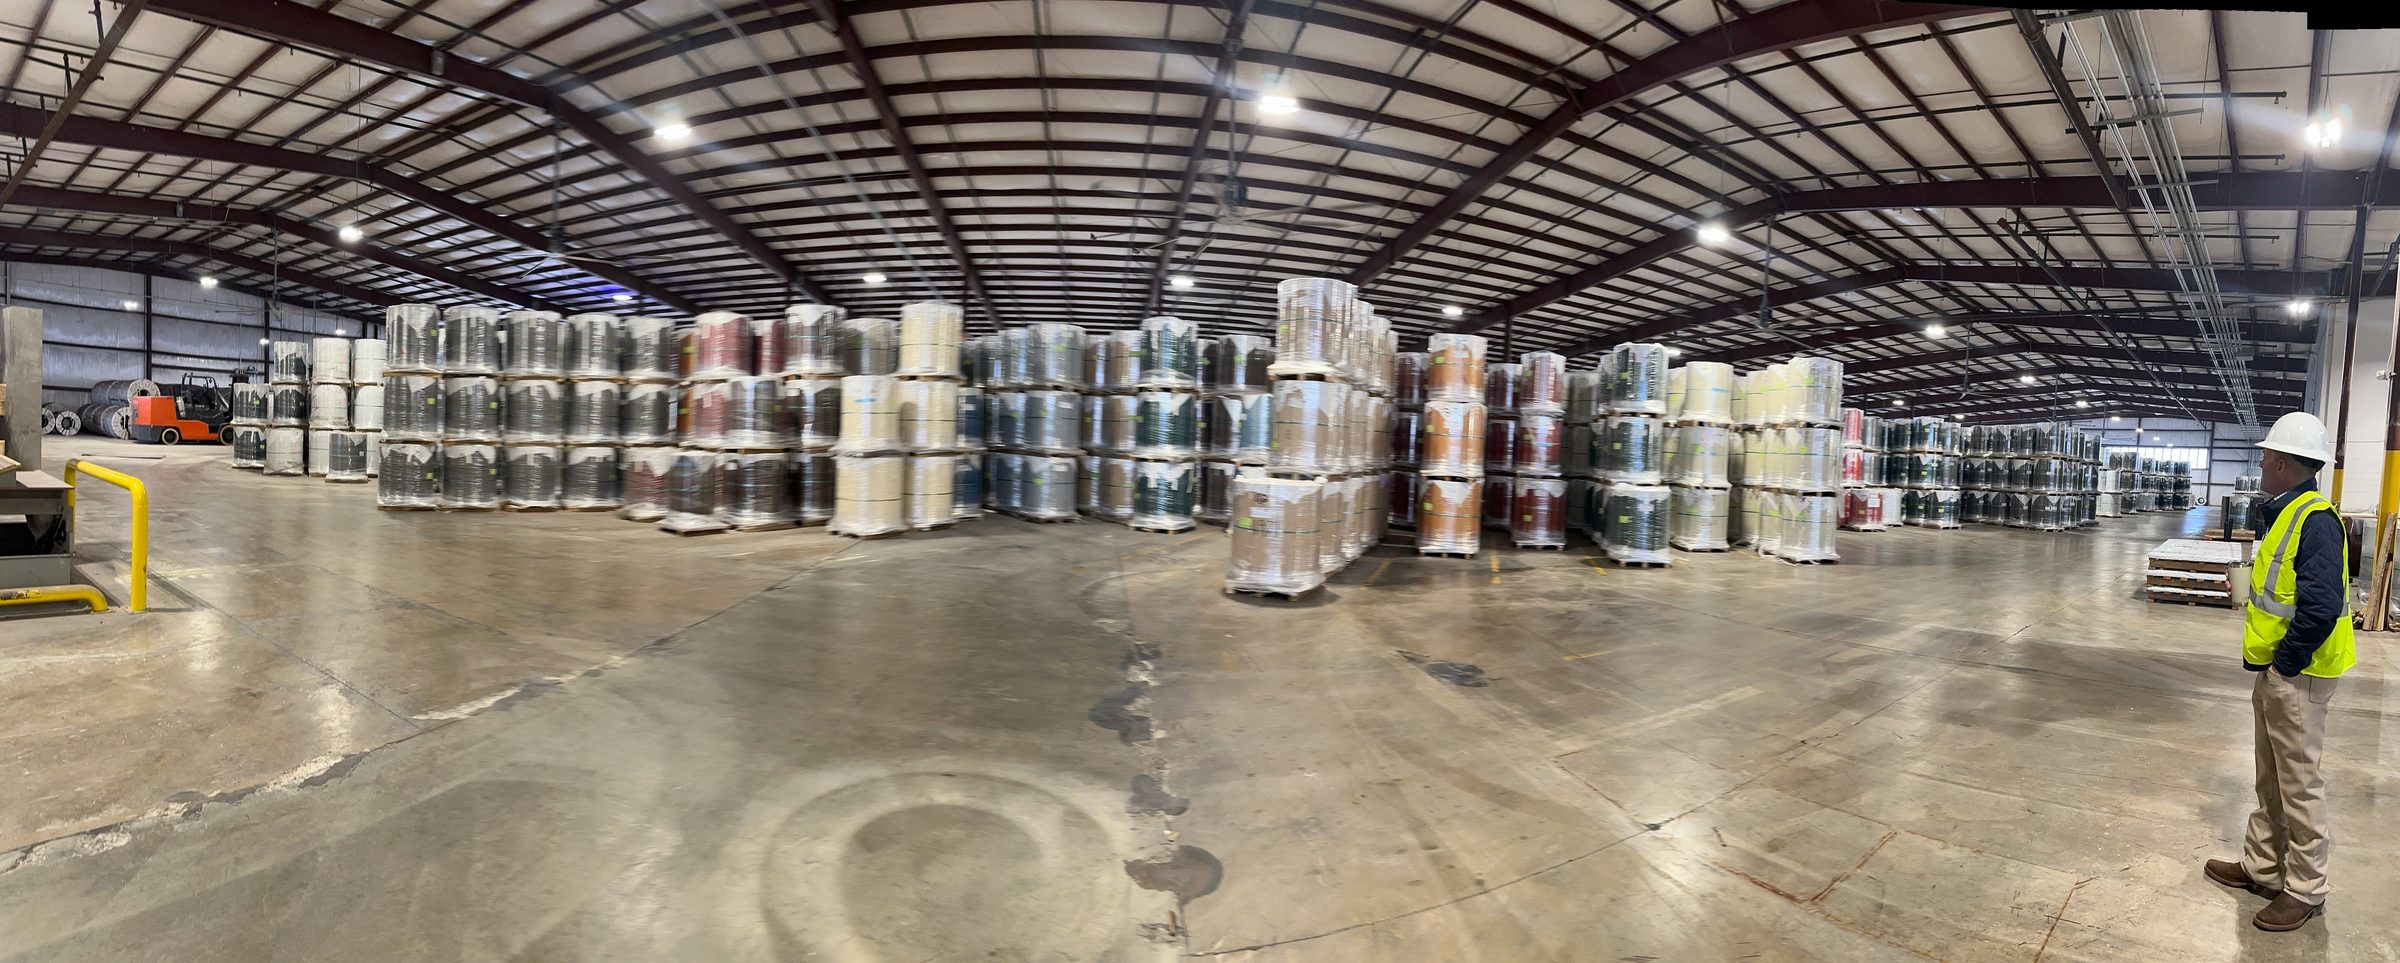
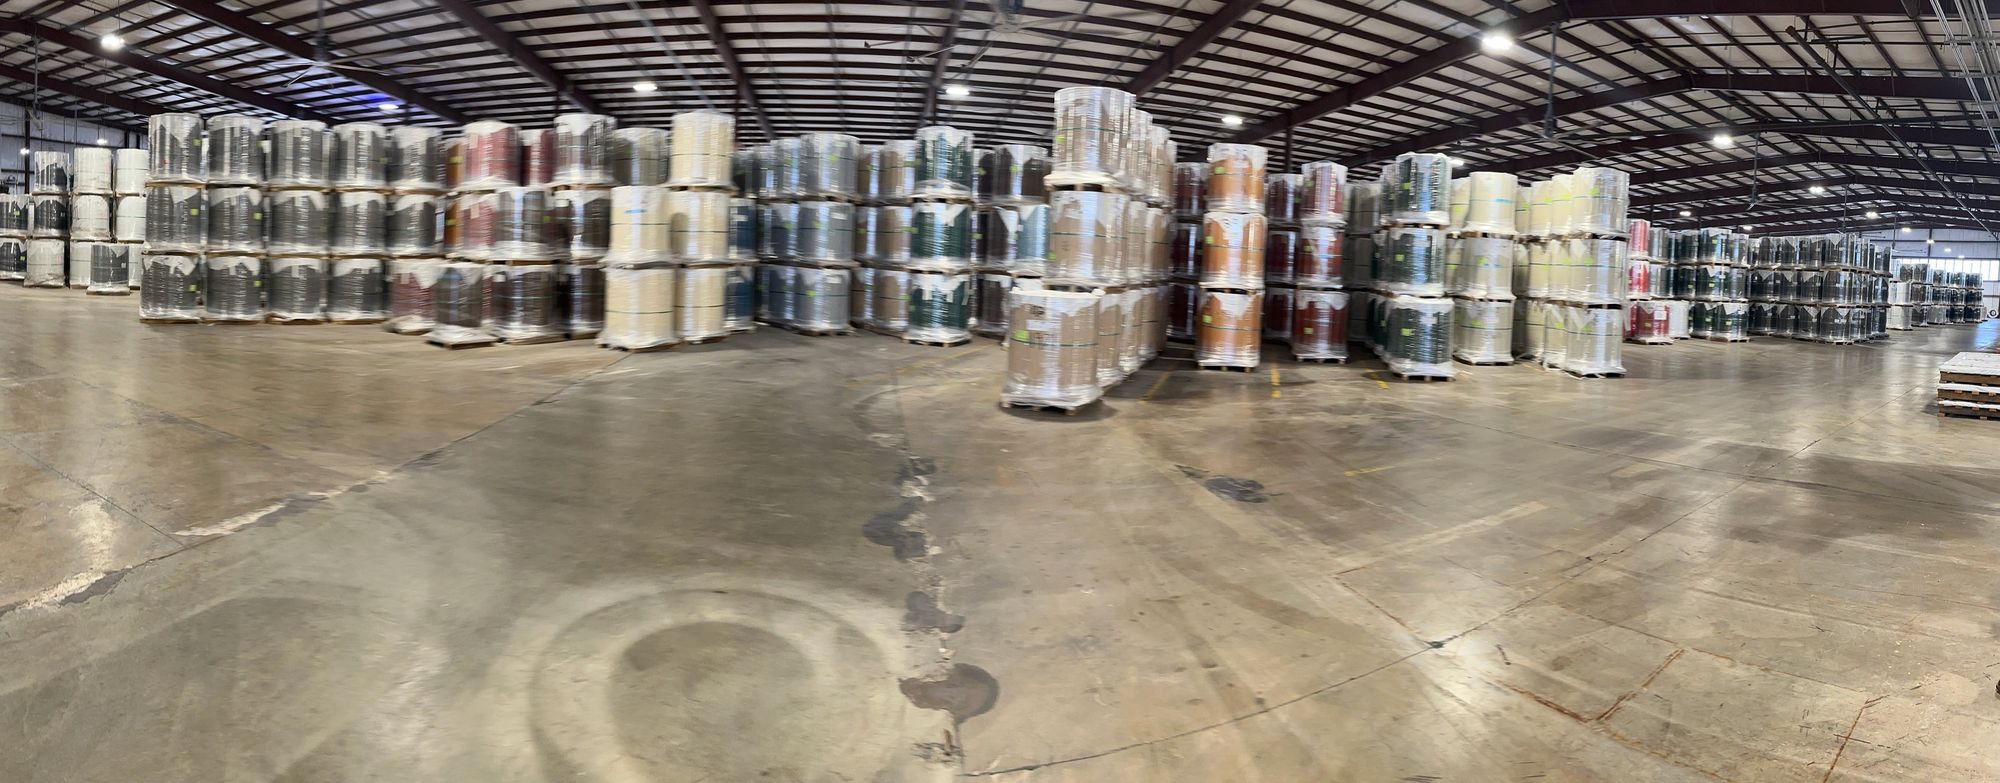
Home: the coil-floor photo, one building seen four ways
The warehouse panorama is cut into pieces under public/img/ and placed in
four spots on the home page, and deliberately nowhere else:

- Hero: the safe master (roof, forklift and the man cropped out) as a
  full-bleed backdrop, graded to navy with a multiply tint and a two-axis
  scrim that is heaviest under the headline and opens toward the bottom,
  where a text-free band shows the polished floor. The tiles and the lab
  card carry their own navy fills so their small type never sits on coil
  texture. On phones a portrait cut of the colour stacks sits behind the
  headline and fades into the navy.
- The network band: the coil wall replaces the painted copper, scrimmed
  under the copy on the left and nearly raw on the right, with a copper
  rule on top so the token survives.
- A gold-edged banner of the coil rows after the FAQ that drifts at
  walking pace, only for people who have not asked for reduced motion.
- The forklift and the yellow rail in the corner of the closing card.

One file per crop at the sizes each viewport needs, WebP with JPEG
fallbacks, the hero preloaded and marked as the LCP, everything below the
fold lazy. Every new rule is scoped to this page; .hero and .dhero are
shared with the other pages.

Claude-Session: https://claude.ai/code/session_01BsuWTs7Ddt2EcbZTQdoYyJ

diff --git a/public/home.html b/public/home.html
@@ -34,6 +34,8 @@
 <link rel="preconnect" href="https://fonts.googleapis.com"><link rel="preconnect" href="https://fonts.gstatic.com" crossorigin>
 <link href="https://fonts.googleapis.com/css2?family=Oswald:wght@500;600;700&family=Inter:wght@400;500;600;700&family=IBM+Plex+Mono:wght@400;500;600&display=swap" rel="stylesheet">
 <link rel="stylesheet" href="/styles.css">
+<link rel="preload" as="image" type="image/webp" imagesrcset="/img/coil-floor-1200.webp 1200w,/img/coil-floor.webp 2000w" imagesizes="100vw" media="(min-width:941px)">
+<link rel="preload" as="image" type="image/webp" imagesrcset="/img/coil-hero-phone-600.webp 600w,/img/coil-hero-phone-900.webp 900w" imagesizes="100vw" media="(max-width:940px)">
 <script src="/auth.js" defer></script>
 <script defer src="/_vercel/insights/script.js"></script>
 </head>
@@ -53,7 +55,15 @@
   <a class="nav-phone" href="tel:+19729447963">972-944-7963</a><span data-auth-slot></span>
 </div></header>
 
-<div class="hero">
+<div class="hero photo">
+  <picture class="hero-ph" aria-hidden="true">
+    <source media="(max-width:940px)" type="image/webp" srcset="/img/coil-hero-phone-600.webp 600w,/img/coil-hero-phone-900.webp 900w" sizes="100vw">
+    <source media="(max-width:940px)" srcset="/img/coil-hero-phone-600.jpg 600w,/img/coil-hero-phone-900.jpg 900w" sizes="100vw">
+    <source type="image/webp" srcset="/img/coil-floor-1200.webp 1200w,/img/coil-floor.webp 2000w" sizes="100vw">
+    <img src="/img/coil-floor.jpg" srcset="/img/coil-floor-1200.jpg 1200w,/img/coil-floor.jpg 2000w" sizes="100vw" width="2000" height="783" alt="" fetchpriority="high" decoding="async">
+  </picture>
+  <div class="hero-tint" aria-hidden="true"></div>
+  <div class="hero-scrim" aria-hidden="true"></div>
   <div class="wrap hero-in">
     <div>
       <p class="eyebrow" style="color:#8FA9BC">RoofCoil.com · The search engine for sheet metal</p>
@@ -152,10 +162,14 @@
   </style>
 </div>
 
-<div class="dhero" id="brands" style="min-height:0">
+<div class="dhero" id="brands">
   <div class="seam dseam" style="--c:#A0602E"></div>
+  <picture class="wall-ph">
+    <source type="image/webp" srcset="/img/coil-wall-1200.webp 1200w,/img/coil-wall-2400.webp 2400w" sizes="100vw">
+    <img src="/img/coil-wall-2400.jpg" srcset="/img/coil-wall-1200.jpg 1200w,/img/coil-wall-2400.jpg 2400w" sizes="100vw" width="2400" height="746" alt="Rows of shrink-wrapped painted steel coils stacked on pallets in a supplier's warehouse" loading="lazy" decoding="async">
+  </picture>
   <div class="scrim"></div>
-  <div class="wrap" style="padding-block:clamp(38px,5vw,60px)">
+  <div class="wrap">
     <p class="eyebrow" style="color:#C7D6E2">The network · Growing</p>
     <h2 class="sec" style="color:#fff;text-shadow:0 2px 14px rgba(0,0,0,.5)">A growing network of suppliers, fabricators &amp; contractors</h2>
     <p style="color:#D5E2EC;max-width:60ch;font-size:15.5px;text-shadow:0 1px 8px rgba(0,0,0,.5);margin:0 0 20px">Every listing shows what the shop actually runs — seam systems, gauges, finishes, colors and plant locations — so you know their capabilities before the first phone call. Filter by what the job needs and pick the shop closest to the project — anywhere in North America.</p>
@@ -191,8 +205,15 @@
 .faq-d p{margin:0;padding:12px 18px 16px;color:#4E6273;font-size:14.5px;line-height:1.65}
 </style>
 
+<div class="aisle" aria-hidden="true">
+  <picture>
+    <source type="image/webp" srcset="/img/coil-aisle-900.webp 900w,/img/coil-aisle-1800.webp 1800w" sizes="130vw">
+    <img src="/img/coil-aisle-1800.jpg" srcset="/img/coil-aisle-900.jpg 900w,/img/coil-aisle-1800.jpg 1800w" sizes="130vw" width="1800" height="183" alt="" loading="lazy" decoding="async">
+  </picture>
+</div>
+
 <div class="wrap" id="getlisted" style="padding-block:clamp(34px,5vw,56px)">
-  <div style="display:flex;flex-wrap:wrap;gap:24px;align-items:center;justify-content:space-between;padding:26px 28px;background:var(--night);color:#fff;border-radius:var(--r);box-shadow:var(--shadow-2)">
+  <div class="dock" style="display:flex;flex-wrap:wrap;gap:24px;align-items:center;justify-content:space-between;padding:26px 28px;background:var(--night);color:#fff;border-radius:var(--r);box-shadow:var(--shadow-2)">
     <div>
       <p class="eyebrow" style="color:#8FA9BC;margin-bottom:8px">For suppliers, fabricators &amp; contractors</p>
       <h3 class="disp" style="font-size:22px;margin:0 0 8px;font-weight:600">Are you a supplier, fabricator or contractor that wants to be listed?</h3>
@@ -219,8 +240,62 @@
   </div>
 </div></footer>
 <style>@media(max-width:860px){.sup3{grid-template-columns:1fr!important}}
-/* no roof strip on this page, so the hero keeps only its own breathing room */
-.hero-in{padding-bottom:0}.hero{padding-bottom:clamp(36px,5vw,64px)}</style>
+.hero-in{padding-bottom:0}
+
+/* The shop-floor photo, one building seen four ways: behind the hero, as the
+   coil wall in the network band, as a thin banner after the FAQ, and as the
+   forklift corner on the closing card. Everything is scoped to this page —
+   .hero, .dhero and .scrim are shared with the other pages. */
+
+/* hero: night-graded, the floor shows in a text-free band along the bottom */
+.hero.photo{isolation:isolate;padding-bottom:clamp(72px,8vw,120px)}
+.hero.photo .hero-ph,.hero.photo .hero-tint,.hero.photo .hero-scrim{position:absolute;inset:0;pointer-events:none}
+.hero.photo .hero-ph img{position:absolute;inset:0;width:100%;height:100%;object-fit:cover;object-position:50% 100%;display:block}
+.hero.photo .hero-tint{background:var(--ink);mix-blend-mode:multiply;opacity:.18}
+.hero.photo .hero-scrim{background:linear-gradient(180deg,rgba(11,30,44,.86) 0%,rgba(11,30,44,.72) 30%,rgba(11,30,44,.52) 62%,rgba(11,30,44,.26) 100%),linear-gradient(90deg,rgba(11,30,44,.6) 0%,rgba(11,30,44,.34) 40%,rgba(11,30,44,0) 66%)}
+.hero.photo .apptile{background:rgba(11,30,44,.48)}
+.hero.photo .apptile:hover{background:rgba(11,30,44,.6)}
+.hero.photo .apptile.primary{background:linear-gradient(rgba(212,175,55,.16),rgba(212,175,55,.16)),rgba(11,30,44,.55)}
+.hero.photo .apptile.primary:hover{background:linear-gradient(rgba(212,175,55,.24),rgba(212,175,55,.24)),rgba(11,30,44,.6)}
+.hero.photo .lab{background:rgba(11,30,44,.55)}
+.hero.photo .spec-strip dt,.hero.photo .lab h4{color:#9FB6C6}
+@media(max-width:940px){
+  /* phone: a portrait cut of the colour stacks sits behind the headline and fades into the navy */
+  .hero.photo{padding-bottom:clamp(36px,5vw,64px)}
+  .hero.photo .hero-ph,.hero.photo .hero-tint,.hero.photo .hero-scrim{bottom:auto;height:min(70vh,560px);-webkit-mask-image:linear-gradient(180deg,#000 55%,transparent 100%);mask-image:linear-gradient(180deg,#000 55%,transparent 100%)}
+  .hero.photo .hero-ph img{object-position:50% 40%}
+  .hero.photo .hero-scrim{background:linear-gradient(180deg,rgba(11,30,44,.86) 0%,rgba(11,30,44,.72) 50%,rgba(11,30,44,.6) 100%)}
+  .hero.photo .lab{backdrop-filter:none}
+}
+
+/* network band: the coil wall, honest colour on the right, scrimmed under the copy on the left */
+#brands{display:grid;align-items:center;min-height:clamp(380px,36vw,560px);isolation:isolate;border-top:6px solid var(--copper)}
+#brands .wall-ph{position:absolute;inset:0}
+#brands .wall-ph img{position:absolute;inset:0;width:100%;height:100%;object-fit:cover;object-position:62% 55%;display:block}
+#brands .scrim{background:linear-gradient(90deg,rgba(11,30,44,.9) 0%,rgba(11,30,44,.84) 36%,rgba(11,30,44,.45) 62%,rgba(11,30,44,.18) 100%),linear-gradient(180deg,rgba(11,30,44,.5),rgba(11,30,44,.08) 40%,rgba(11,30,44,.3))}
+#brands .wrap{padding-block:clamp(38px,5vw,60px)}
+@media(max-width:640px){
+  #brands{min-height:0}
+  #brands .wrap{padding-bottom:150px}
+  #brands .scrim{background:linear-gradient(180deg,rgba(11,30,44,.9) 0%,rgba(11,30,44,.86) 58%,rgba(11,30,44,.3) 100%)}
+  #brands .wall-ph img{object-position:60% 50%}
+}
+
+/* aisle: a gold-edged banner of the coil rows that drifts at walking pace */
+.aisle{position:relative;height:clamp(120px,11vw,220px);margin-top:clamp(34px,5vw,56px);overflow:hidden;background:var(--night);box-shadow:inset 0 1px 0 var(--gold),inset 0 -1px 0 var(--gold)}
+.aisle img{position:absolute;top:0;left:0;display:block;height:100%;width:130%;object-fit:cover;object-position:50% 40%;transform:translateX(-11.54%)}
+.aisle::after{content:"";position:absolute;inset:0;pointer-events:none;background:linear-gradient(90deg,rgba(11,30,44,.5),transparent 18%,transparent 82%,rgba(11,30,44,.5))}
+@media(prefers-reduced-motion:no-preference){.aisle img{animation:aisle-drift 60s ease-in-out infinite alternate}}
+@keyframes aisle-drift{from{transform:translateX(0)}to{transform:translateX(-23.08%)}}
+@media(max-width:640px){.aisle{height:84px}}
+
+/* closing card: the forklift and the yellow rail in the corner */
+.dock{position:relative;overflow:hidden;isolation:isolate}
+.dock::before{content:"";position:absolute;top:0;bottom:0;right:0;width:44%;z-index:-1;background:linear-gradient(rgba(11,30,44,.45),rgba(11,30,44,.45)),url(/img/coil-forklift-480.webp) 60% 40%/cover no-repeat;opacity:.75;-webkit-mask-image:linear-gradient(90deg,transparent,#000 45%);mask-image:linear-gradient(90deg,transparent,#000 45%);transition:opacity .3s}
+.dock:hover::before{opacity:.95}
+@media(min-width:900px){.dock>div{max-width:60%}}
+@media(max-width:640px){.dock::before{top:auto;left:0;right:0;bottom:0;width:100%;height:36%;background-position:50% 70%;-webkit-mask-image:linear-gradient(180deg,transparent,#000 60%);mask-image:linear-gradient(180deg,transparent,#000 60%)}}
+</style>
 <script>
 // Listed-shop count is live: every published directory listing counts, so it
 // climbs on its own as shops are approved. Falls back to the static text if the
